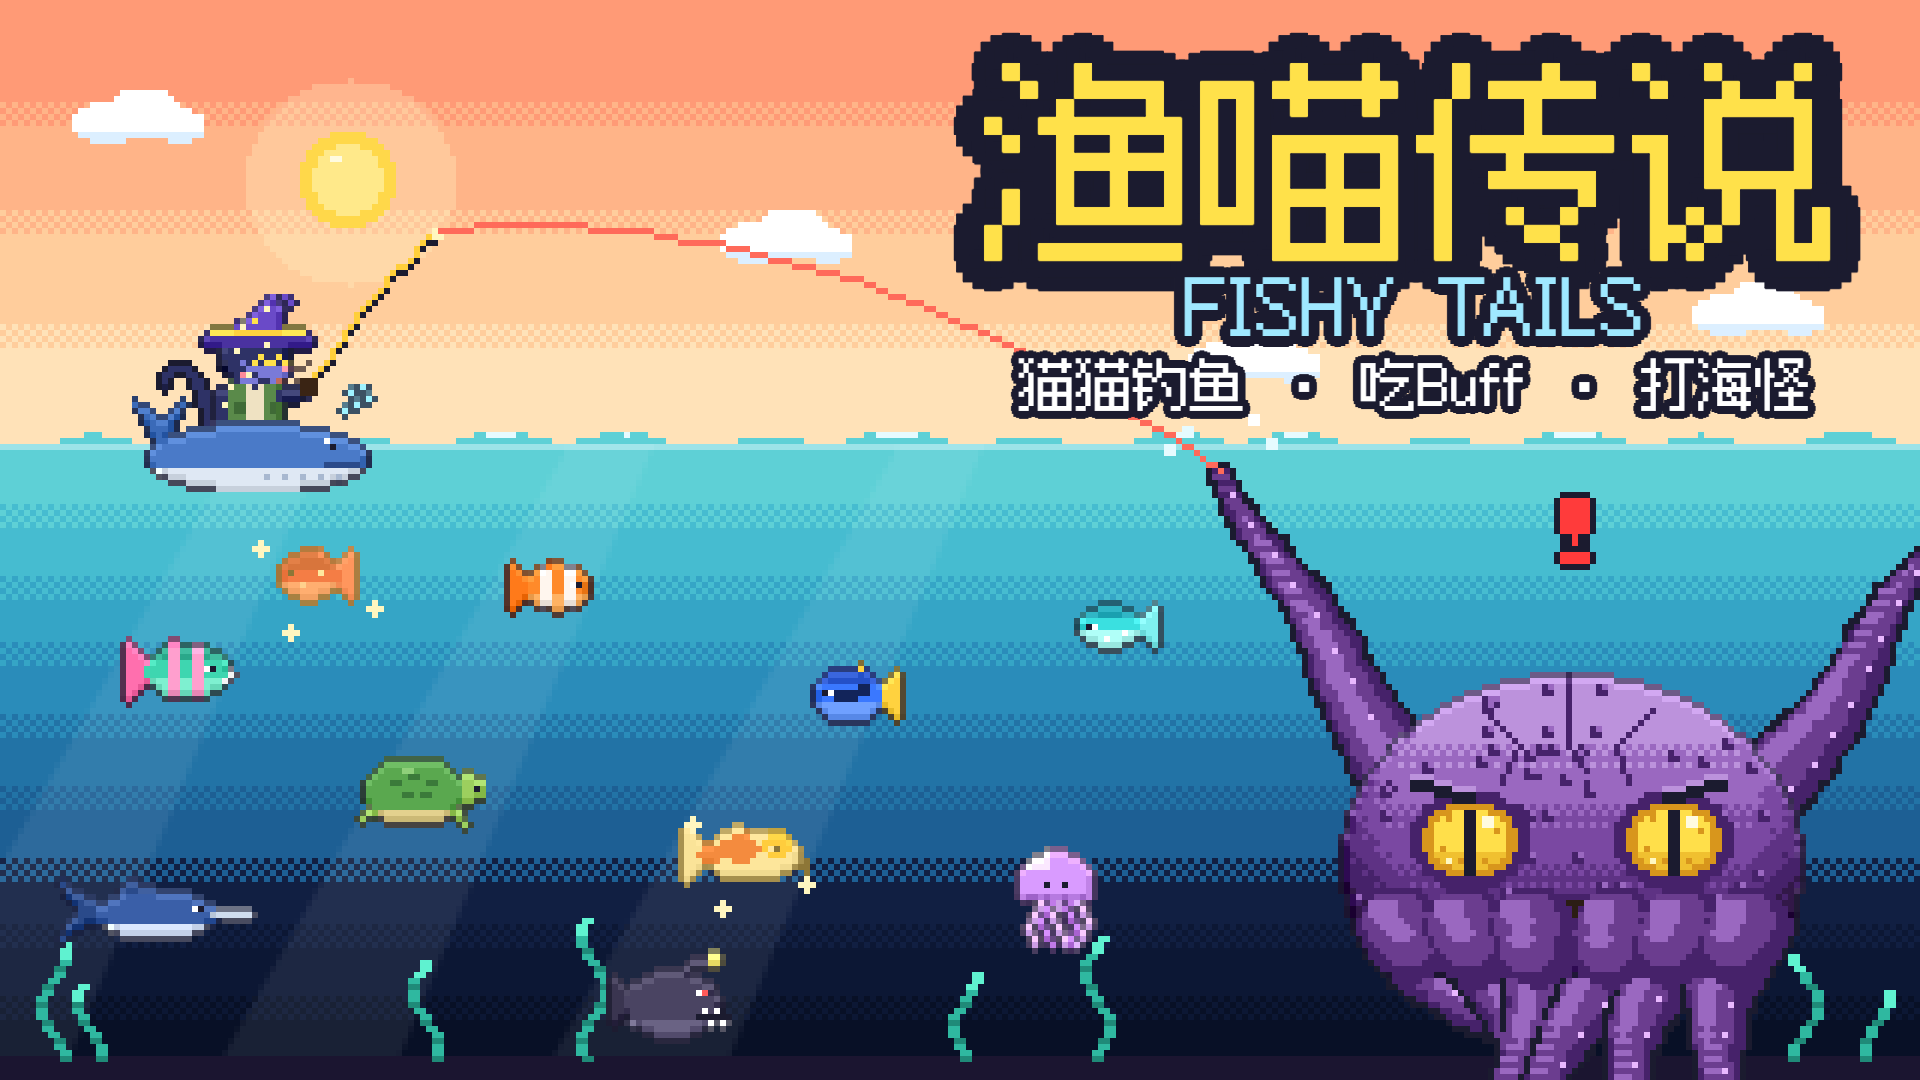
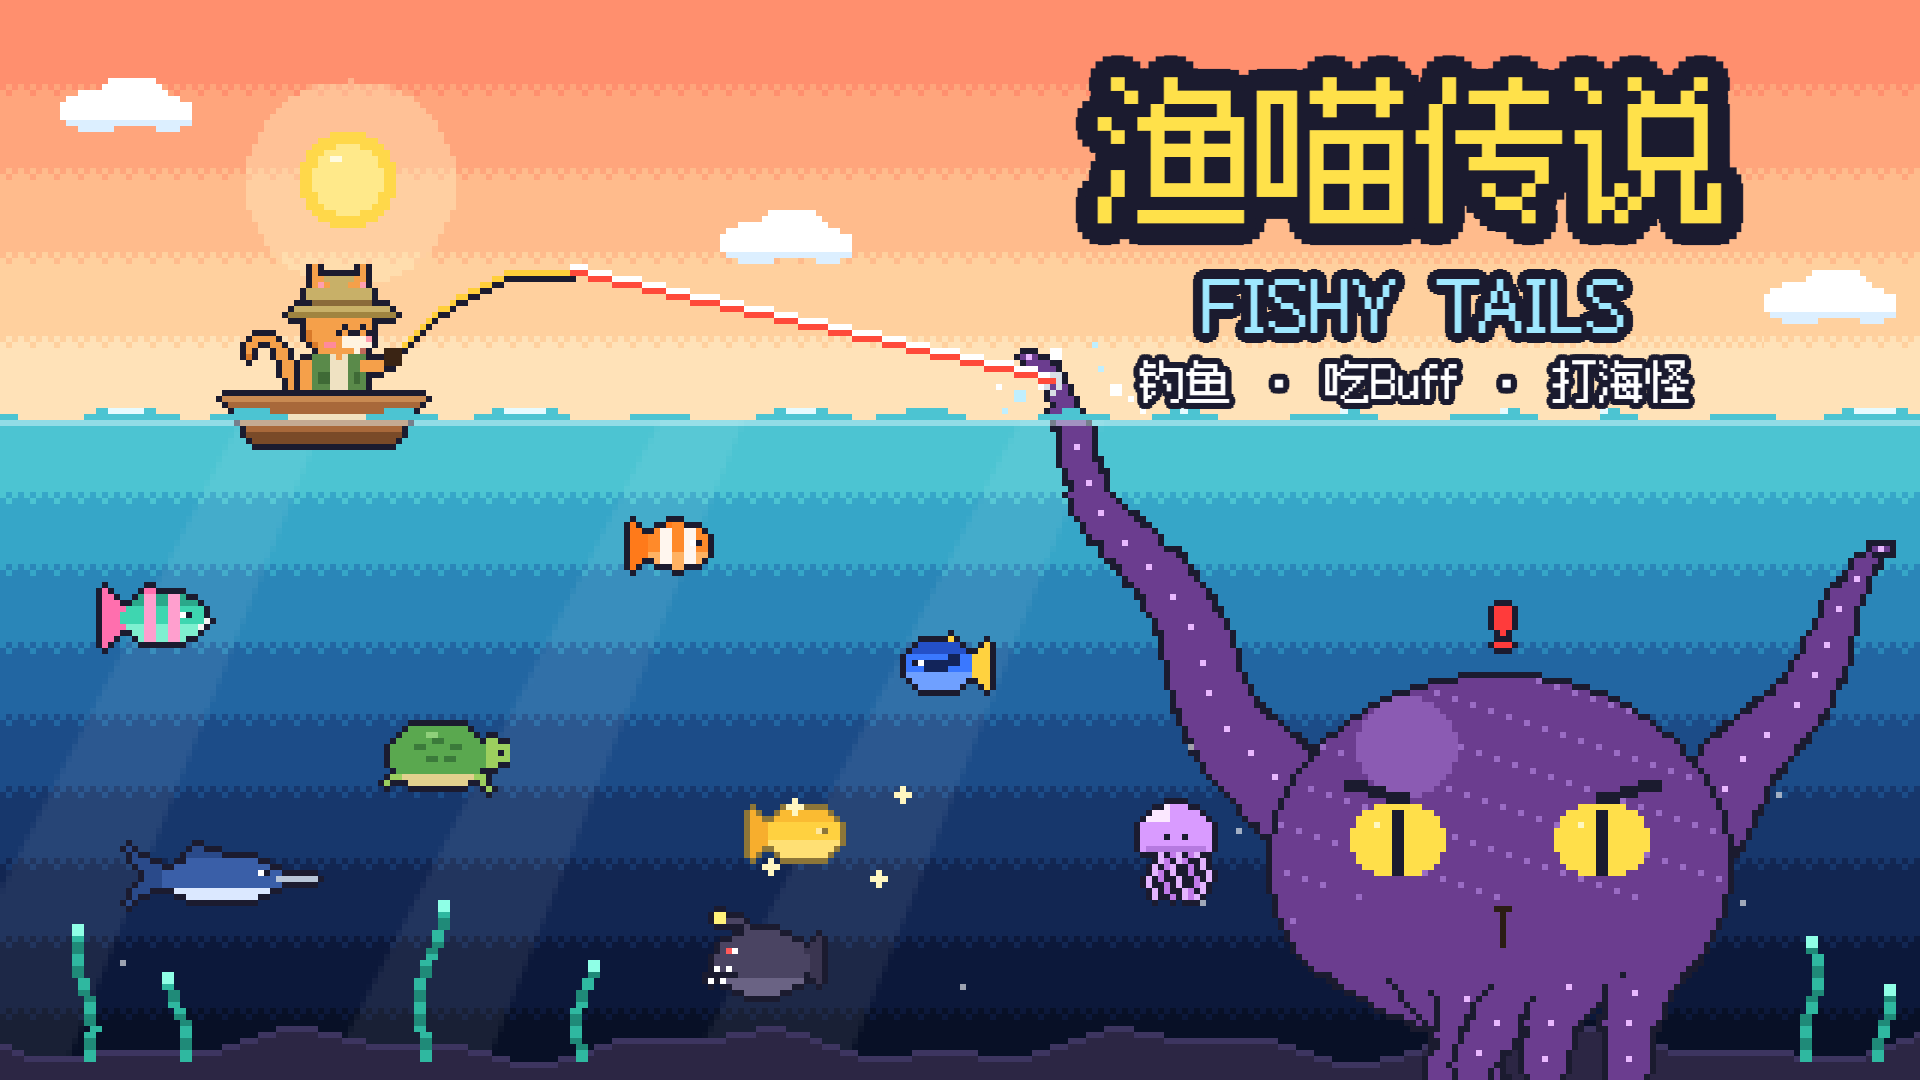
Cover: back to the first cover's scene, title re-set in the game's pixel font
tools/cover-classic.js loads media/v1/cover.png, paints the old title out
with the sky behind it (flat rows with a 2-pixel dither, so a 12 px strip
from a clear column tiles seamlessly) and re-sets the title, FISHY TAILS
and the tagline in Fusion Pixel inside the old footprint, so the kraken
arm's tip and splash stay in view. Also an English version and a 1600x900
copy. The outfit cover from the last commit is kept as media/cover-outfit.png.

diff --git a/tools/cover-classic.js b/tools/cover-classic.js
@@ -1,0 +1,30 @@
+// The current cover: the first cover's scene (media/v1/cover.png) with its title re-set in the game's own pixel font.
+//   python D:/Minigame/_workflow/tools/record_video.py D:/Minigame/Fishing tools/cover-classic.js --size 1920x1080 --fps 1 --frames <dir> --out <dir>/x.mp4
+// The old title is painted over with the sky behind it (sky rows are flat colour with a 2-pixel dither, so a
+// 12 px strip from a clear column tiles exactly); the horizon water under the old tagline is tiled from a clear stretch.
+{
+  REC.run({ fps: 1, seconds: 1, canvas: cv, audio: false,
+    async setup() {
+      try { await document.fonts.ready; await document.fonts.load('30px "Fusion Pixel"', ALLTEXT); } catch (e) {} TXC.clear();
+      removeEventListener('resize', fit); cv.width = 1920; cv.height = 1080; K = 6;
+      this.img = await createImageBitmap(await (await fetch('media/v1/cover.png')).blob());
+    },
+    step() {
+      const o = ctx; o.setTransform(1, 0, 0, 1, 0, 0); o.imageSmoothingEnabled = false;
+      o.drawImage(this.img, 0, 0);
+      const strip = (x0, y0, y1, dx0, dx1, w = 12) => {   // tile columns [x0, x0+w) of rows y0..y1 across dx0..dx1
+        for (let x = dx0; x < dx1; x += w) o.drawImage(this.img, x0, y0, Math.min(w, dx1 - x), y1 - y0, x, y0, Math.min(w, dx1 - x), y1 - y0);
+      };
+      strip(1896, 24, 300, 1080, 1764);     // behind the old title: the clear sky at the right edge (right of the cloud)
+      strip(1896, 300, 408, 1180, 1764);    // lower down, stay clear of the kraken arm's splash on the left
+      strip(1600, 408, 444, 1180, 1600, 160);   // horizon waves under the old tagline
+      const en = REC.arg === 'en'; setLang(en ? 'en' : 'zh'); TQ.length = 0;
+      if (en) txt('Fishy Tails', 236, 30, 28, '#ffe14a', 'center', OUT, 1, 110);
+      else {
+        txt('渔喵传说', 236, 25, 32, '#ffe14a', 'center', OUT, 1, 106);   // stays inside the old title's footprint
+        txt('FISHY TAILS', 236, 51, 12, '#9fe8ff', 'center', OUT);
+      }
+      txt(en ? '猫猫钓鱼 · 吃Buff · 打海怪' : '钓鱼 · 吃Buff · 打海怪', 236, en ? 52 : 63.5, 9, '#ffffff', 'center', OUT, 1, 92);   // clear of the kraken arm's tip on the left
+      for (const t of TQ) { const c = textSprite(t), tw = c.w - 2 * c.pad; o.drawImage(c.cv, R(t.x * K - c.pad - tw / 2), R(t.y * K - c.h / 2)); }
+    } });
+}

diff --git a/README.md b/README.md
@@ -6,7 +6,7 @@
 
 **在线试玩：** https://grrreymane.github.io/FishyTails/
 
-**中文 / English**：按浏览器语言自动选择，标题画面左上角可切换。宣传视频：[trailer.mp4](trailer.mp4)（竖屏 21 秒，`tools/trailer.js` 生成）；截图在 [media/shots](media/shots)，英文封面 [media/cover-en.png](media/cover-en.png)（`tools/cover.js` 生成）。上一版封面和视频留在 [media/v1](media/v1)。
+**中文 / English**：按浏览器语言自动选择，标题画面左上角可切换。宣传视频：[trailer.mp4](trailer.mp4)（竖屏 21 秒，`tools/trailer.js` 生成）；截图在 [media/shots](media/shots)，英文封面 [media/cover-en.png](media/cover-en.png)（`tools/cover-classic.js`：第一版封面的画面，标题换成游戏里的像素字；穿新装扮的另一版是 `media/cover-outfit.png`，`tools/cover.js` 生成）。上一版封面和视频留在 [media/v1](media/v1)。
 
 ## 怎么玩
 
